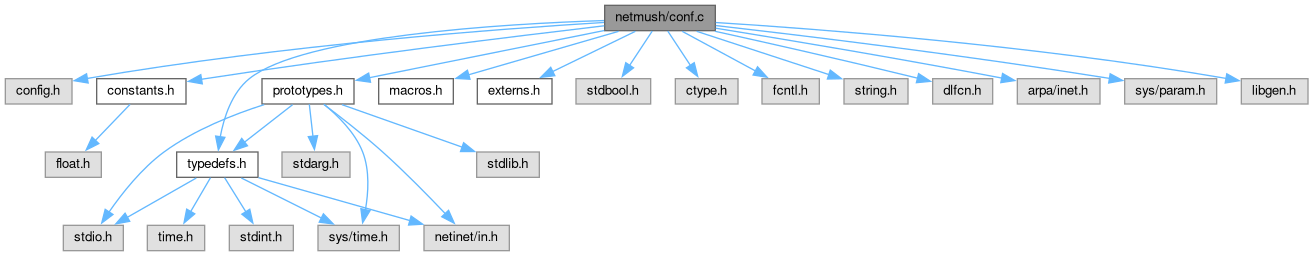
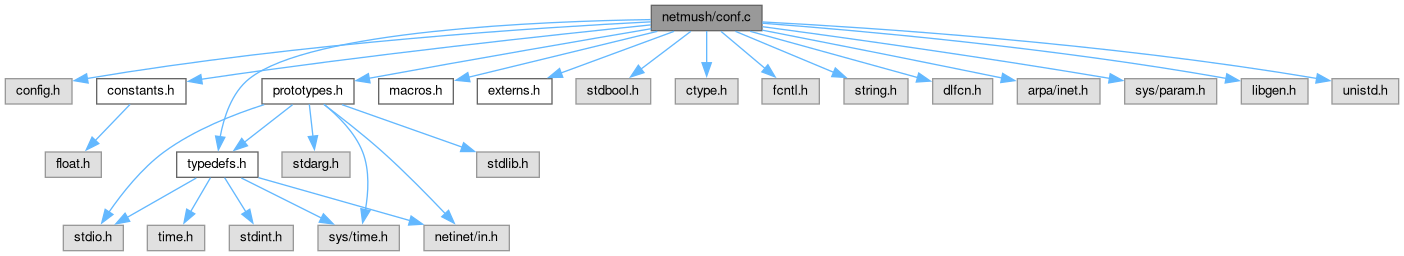
deploy: 9ef5f4ad89fb85d008717929d2bb4c971a84497e

Changed region(s): [[0.0, 0.0312, 0.9992, 1.0]]

diff --git a/html/prototypes_8h_source.html b/html/prototypes_8h_source.html
@@ -1601,45 +1601,45 @@ $(function() {
 <div class="ttc" id="acommand_8c_html_af09656d08f2a6cab960de5ea5d8fdec1"><div class="ttname"><a href="command_8c.html#af09656d08f2a6cab960de5ea5d8fdec1">cf_access</a></div><div class="ttdeci">int cf_access(int *vp __attribute__((unused)), char *str, long extra, dbref player, char *cmd)</div><div class="ttdoc">Change command or switch permissions.</div><div class="ttdef"><b>Definition:</b> command.c:2203</div></div>
 <div class="ttc" id="acommand_8c_html_af2a2ba388e2b9483ea0b0a2bbe25912b"><div class="ttname"><a href="command_8c.html#af2a2ba388e2b9483ea0b0a2bbe25912b">check_cmd_access</a></div><div class="ttdeci">bool check_cmd_access(dbref player, CMDENT *cmdp, char *cargs[], int ncargs)</div><div class="ttdoc">Check if user has access to command.</div><div class="ttdef"><b>Definition:</b> command.c:446</div></div>
 <div class="ttc" id="acommand_8c_html_afc48d4c390671b04556730ed457f9e43"><div class="ttname"><a href="command_8c.html#afc48d4c390671b04556730ed457f9e43">list_costs</a></div><div class="ttdeci">void list_costs(dbref player)</div><div class="ttdoc">List the costs of things.</div><div class="ttdef"><b>Definition:</b> command.c:2562</div></div>
-<div class="ttc" id="aconf_8c_html_a032ee9f4779b1b233731cc990771339a"><div class="ttname"><a href="conf_8c.html#a032ee9f4779b1b233731cc990771339a">cf_divert_log</a></div><div class="ttdeci">CF_Result cf_divert_log(int *vp, char *str, long extra, dbref player, char *cmd)</div><div class="ttdoc">Redirect a log type.</div><div class="ttdef"><b>Definition:</b> conf.c:927</div></div>
-<div class="ttc" id="aconf_8c_html_a085da5a9cb4e6491187ffd5302e6906a"><div class="ttname"><a href="conf_8c.html#a085da5a9cb4e6491187ffd5302e6906a">cf_init</a></div><div class="ttdeci">void cf_init(void)</div><div class="ttdoc">Initialize mushconf to default values.</div><div class="ttdef"><b>Definition:</b> conf.c:38</div></div>
-<div class="ttc" id="aconf_8c_html_a1a0ca056bf4a42dea3c0fd7dee9600c3"><div class="ttname"><a href="conf_8c.html#a1a0ca056bf4a42dea3c0fd7dee9600c3">cf_alias</a></div><div class="ttdeci">CF_Result cf_alias(int *vp, char *str, long extra, dbref player, char *cmd)</div><div class="ttdoc">define a generic hash table alias.</div><div class="ttdef"><b>Definition:</b> conf.c:760</div></div>
-<div class="ttc" id="aconf_8c_html_a200953a534900eeed30b799daead0e3c"><div class="ttname"><a href="conf_8c.html#a200953a534900eeed30b799daead0e3c">modify_xfuncs</a></div><div class="ttdeci">bool modify_xfuncs(char *fn_name, int(*fn_ptr)(dbref), EXTFUNCS **xfuncs, bool negate)</div><div class="ttdoc">Helper function to change xfuncs.</div><div class="ttdef"><b>Definition:</b> conf.c:1126</div></div>
-<div class="ttc" id="aconf_8c_html_a21aba8e61c0468b478c1ea1c958eac64"><div class="ttname"><a href="conf_8c.html#a21aba8e61c0468b478c1ea1c958eac64">cf_status_from_succfail</a></div><div class="ttdeci">CF_Result cf_status_from_succfail(dbref player, char *cmd, int success, int failure)</div><div class="ttdoc">Return command status from succ and fail info.</div><div class="ttdef"><b>Definition:</b> conf.c:420</div></div>
-<div class="ttc" id="aconf_8c_html_a230382081dc03731bca0bf77b116afc5"><div class="ttname"><a href="conf_8c.html#a230382081dc03731bca0bf77b116afc5">helper_cf_display</a></div><div class="ttdeci">void helper_cf_display(dbref player, char *buff, char **bufc, CONF *tp)</div><div class="ttdoc">Helper function for cf_display.</div><div class="ttdef"><b>Definition:</b> conf.c:2403</div></div>
-<div class="ttc" id="aconf_8c_html_a2870e9ac7552941ef3130b3fa9bcf50c"><div class="ttname"><a href="conf_8c.html#a2870e9ac7552941ef3130b3fa9bcf50c">cf_set</a></div><div class="ttdeci">CF_Result cf_set(char *cp, char *ap, dbref player)</div><div class="ttdoc">Set a config directive.</div><div class="ttdef"><b>Definition:</b> conf.c:2194</div></div>
-<div class="ttc" id="aconf_8c_html_a2b797944cba33b8fedc781e884c9c1c5"><div class="ttname"><a href="conf_8c.html#a2b797944cba33b8fedc781e884c9c1c5">add_helpfile</a></div><div class="ttdeci">CF_Result add_helpfile(dbref player, char *confcmd, char *str, bool is_raw)</div><div class="ttdoc">Add a help/news-style file. Only valid during startup.</div><div class="ttdef"><b>Definition:</b> conf.c:1765</div></div>
-<div class="ttc" id="aconf_8c_html_a2bd94da74d93add749fd63445cdb2c42"><div class="ttname"><a href="conf_8c.html#a2bd94da74d93add749fd63445cdb2c42">cf_infotext</a></div><div class="ttdeci">CF_Result cf_infotext(int *vp __attribute__((unused)), char *str, long extra __attribute__((unused)), dbref player __attribute__((unused)), char *cmd __attribute__((unused)))</div><div class="ttdoc">Add an arbitrary field to INFO output.</div><div class="ttdef"><b>Definition:</b> conf.c:840</div></div>
-<div class="ttc" id="aconf_8c_html_a2e088917d0fae5d298da928cfbad0b52"><div class="ttname"><a href="conf_8c.html#a2e088917d0fae5d298da928cfbad0b52">dlopen_format</a></div><div class="ttdeci">void * dlopen_format(const char *filename,...)</div><div class="ttdoc">Wrapper around lt_dlopen that can format filename.</div><div class="ttdef"><b>Definition:</b> conf.c:2576</div></div>
-<div class="ttc" id="aconf_8c_html_a2f25a79146697836916029d8c600aadb"><div class="ttname"><a href="conf_8c.html#a2f25a79146697836916029d8c600aadb">list_options</a></div><div class="ttdeci">void list_options(dbref player)</div><div class="ttdoc">List options to player.</div><div class="ttdef"><b>Definition:</b> conf.c:2488</div></div>
-<div class="ttc" id="aconf_8c_html_a3637eed82e0dc8a7aca3d536208a691a"><div class="ttname"><a href="conf_8c.html#a3637eed82e0dc8a7aca3d536208a691a">cf_bool</a></div><div class="ttdeci">CF_Result cf_bool(int *vp, char *str, long extra __attribute__((unused)), dbref player __attribute__((unused)), char *cmd __attribute__((unused)))</div><div class="ttdoc">Set boolean parameter.</div><div class="ttdef"><b>Definition:</b> conf.c:675</div></div>
-<div class="ttc" id="aconf_8c_html_a4516cd2f85af34f16515a1639fec0b4a"><div class="ttname"><a href="conf_8c.html#a4516cd2f85af34f16515a1639fec0b4a">parse_ext_access</a></div><div class="ttdeci">CF_Result parse_ext_access(int *perms, EXTFUNCS **xperms, char *str, NAMETAB *ntab, dbref player, char *cmd)</div><div class="ttdoc">Parse an extended access list with module callouts.</div><div class="ttdef"><b>Definition:</b> conf.c:1248</div></div>
-<div class="ttc" id="aconf_8c_html_a48775ed4cbf62962ae3dfe01276a89f2"><div class="ttname"><a href="conf_8c.html#a48775ed4cbf62962ae3dfe01276a89f2">cf_set_flags</a></div><div class="ttdeci">CF_Result cf_set_flags(int *vp, char *str, long extra __attribute__((unused)), dbref player, char *cmd)</div><div class="ttdoc">Clear flag word and then set from a flags htab.</div><div class="ttdef"><b>Definition:</b> conf.c:1389</div></div>
-<div class="ttc" id="aconf_8c_html_a5324f59cc87bcb7be9c4c7527c4381b7"><div class="ttname"><a href="conf_8c.html#a5324f59cc87bcb7be9c4c7527c4381b7">cf_helpfile</a></div><div class="ttdeci">CF_Result cf_helpfile(int *vp __attribute__((unused)), char *str, long extra __attribute__((unused)), dbref player, char *cmd)</div><div class="ttdoc">Add an helpfile.</div><div class="ttdef"><b>Definition:</b> conf.c:1922</div></div>
-<div class="ttc" id="aconf_8c_html_a5916f7b967915668be9a04783c68e3fe"><div class="ttname"><a href="conf_8c.html#a5916f7b967915668be9a04783c68e3fe">cf_include</a></div><div class="ttdeci">CF_Result cf_include(int *vp __attribute__((unused)), char *str, long extra __attribute__((unused)), dbref player, char *cmd)</div><div class="ttdoc">Read another config file. Only valid during startup.</div><div class="ttdef"><b>Definition:</b> conf.c:1951</div></div>
-<div class="ttc" id="aconf_8c_html_a683e8bd9019ce641c4d7ef97f61769fe"><div class="ttname"><a href="conf_8c.html#a683e8bd9019ce641c4d7ef97f61769fe">cf_display</a></div><div class="ttdeci">void cf_display(dbref player, char *param_name, char *buff, char **bufc)</div><div class="ttdoc">Given a config parameter by name, return its value in some sane fashion.</div><div class="ttdef"><b>Definition:</b> conf.c:2451</div></div>
-<div class="ttc" id="aconf_8c_html_a6c8d27f4042a89642d60650ee6ea54e1"><div class="ttname"><a href="conf_8c.html#a6c8d27f4042a89642d60650ee6ea54e1">list_cf_access</a></div><div class="ttdeci">void list_cf_access(dbref player)</div><div class="ttdoc">List write or read access to config directives.</div><div class="ttdef"><b>Definition:</b> conf.c:2283</div></div>
-<div class="ttc" id="aconf_8c_html_a7024218f3fd64844a6901a15c6b75932"><div class="ttname"><a href="conf_8c.html#a7024218f3fd64844a6901a15c6b75932">cf_cf_access</a></div><div class="ttdeci">CF_Result cf_cf_access(int *vp, char *str, long extra, dbref player, char *cmd)</div><div class="ttdoc">Set configuration parameter access.</div><div class="ttdef"><b>Definition:</b> conf.c:1716</div></div>
-<div class="ttc" id="aconf_8c_html_a70fdb73c400146dcb44f1df6d13ab59d"><div class="ttname"><a href="conf_8c.html#a70fdb73c400146dcb44f1df6d13ab59d">helper_cf_cf_access</a></div><div class="ttdeci">CF_Result helper_cf_cf_access(CONF *tp, dbref player, int *vp, char *ap, char *cmd, long extra)</div><div class="ttdoc">Set write or read access on config directives kludge.</div><div class="ttdef"><b>Definition:</b> conf.c:1670</div></div>
-<div class="ttc" id="aconf_8c_html_a8e3da15e4ec40ff9d517725902151fbc"><div class="ttname"><a href="conf_8c.html#a8e3da15e4ec40ff9d517725902151fbc">cf_modify_bits</a></div><div class="ttdeci">CF_Result cf_modify_bits(int *vp, char *str, long extra, dbref player, char *cmd)</div><div class="ttdoc">set or clear bits in a flag word from a namelist.</div><div class="ttdef"><b>Definition:</b> conf.c:1057</div></div>
-<div class="ttc" id="aconf_8c_html_a92ac9ac9919ff4951e862a6f04357218"><div class="ttname"><a href="conf_8c.html#a92ac9ac9919ff4951e862a6f04357218">cf_site</a></div><div class="ttdeci">CF_Result cf_site(long **vp, char *str, long extra, dbref player, char *cmd)</div><div class="ttdoc">Update site information.</div><div class="ttdef"><b>Definition:</b> conf.c:1533</div></div>
-<div class="ttc" id="aconf_8c_html_a99b087971745ee409689c8ed0c65e9d8"><div class="ttname"><a href="conf_8c.html#a99b087971745ee409689c8ed0c65e9d8">cf_dbref</a></div><div class="ttdeci">CF_Result cf_dbref(int *vp, char *str, long extra, dbref player, char *cmd)</div><div class="ttdoc">Set dbref parameter.</div><div class="ttdef"><b>Definition:</b> conf.c:538</div></div>
-<div class="ttc" id="aconf_8c_html_a9a1ad9bd03ddc49a2e5e5d64ecfcbd7a"><div class="ttname"><a href="conf_8c.html#a9a1ad9bd03ddc49a2e5e5d64ecfcbd7a">cf_int</a></div><div class="ttdeci">CF_Result cf_int(int *vp, char *str, long extra, dbref player, char *cmd)</div><div class="ttdoc">Set integer parameter.</div><div class="ttdef"><b>Definition:</b> conf.c:482</div></div>
-<div class="ttc" id="aconf_8c_html_aa780cef79c1cef85acf4b459d72f283b"><div class="ttname"><a href="conf_8c.html#aa780cef79c1cef85acf4b459d72f283b">cf_const</a></div><div class="ttdeci">CF_Result cf_const(int *vp __attribute__((unused)), char *str __attribute__((unused)), long extra __attribute__((unused)), dbref player, char *cmd)</div><div class="ttdoc">Read-only integer or boolean parameter.</div><div class="ttdef"><b>Definition:</b> conf.c:462</div></div>
-<div class="ttc" id="aconf_8c_html_aa95745ca45e45ab9d3b47fbdc2e89a75"><div class="ttname"><a href="conf_8c.html#aa95745ca45e45ab9d3b47fbdc2e89a75">cf_int_factor</a></div><div class="ttdeci">CF_Result cf_int_factor(int *vp, char *str, long extra, dbref player, char *cmd)</div><div class="ttdoc">Set integer parameter that will be used as a factor (ie. cannot be set to 0)</div><div class="ttdef"><b>Definition:</b> conf.c:508</div></div>
-<div class="ttc" id="aconf_8c_html_ab38ed99fd7766aca9686cb5410386060"><div class="ttname"><a href="conf_8c.html#ab38ed99fd7766aca9686cb5410386060">cf_read</a></div><div class="ttdeci">CF_Result cf_read(char *fn)</div><div class="ttdoc">Read in config parameters from named file.</div><div class="ttdef"><b>Definition:</b> conf.c:2271</div></div>
-<div class="ttc" id="aconf_8c_html_ab67a993026aff1ef8abacb365655dcbd"><div class="ttname"><a href="conf_8c.html#ab67a993026aff1ef8abacb365655dcbd">cf_option</a></div><div class="ttdeci">CF_Result cf_option(int *vp, char *str, long extra, dbref player, char *cmd)</div><div class="ttdoc">Select one option from many choices.</div><div class="ttdef"><b>Definition:</b> conf.c:697</div></div>
-<div class="ttc" id="aconf_8c_html_aba5afa77ee6277bef4422c8880295e59"><div class="ttname"><a href="conf_8c.html#aba5afa77ee6277bef4422c8880295e59">cf_verify</a></div><div class="ttdeci">void cf_verify(void)</div><div class="ttdoc">Walk all configuration tables and validate any dbref values.</div><div class="ttdef"><b>Definition:</b> conf.c:2359</div></div>
-<div class="ttc" id="aconf_8c_html_ac9483ab49da95f7d8c66cdb8c04f40d4"><div class="ttname"><a href="conf_8c.html#ac9483ab49da95f7d8c66cdb8c04f40d4">dlsym_format</a></div><div class="ttdeci">void * dlsym_format(void *place, const char *symbol,...)</div><div class="ttdoc">Wrapper for lt_dlsym that format symbol string.</div><div class="ttdef"><b>Definition:</b> conf.c:2665</div></div>
-<div class="ttc" id="aconf_8c_html_acdf13b080f6aefea67458c703d710032"><div class="ttname"><a href="conf_8c.html#acdf13b080f6aefea67458c703d710032">cf_badname</a></div><div class="ttdeci">CF_Result cf_badname(int *vp __attribute__((unused)), char *str, long extra, dbref player __attribute__((unused)), char *cmd __attribute__((unused)))</div><div class="ttdoc">Disallow use of player name/alias.</div><div class="ttdef"><b>Definition:</b> conf.c:1480</div></div>
-<div class="ttc" id="aconf_8c_html_ad1fa1cbb8bd39108497e7e24a241ae99"><div class="ttname"><a href="conf_8c.html#ad1fa1cbb8bd39108497e7e24a241ae99">cf_module</a></div><div class="ttdeci">CF_Result cf_module(int *vp __attribute__((unused)), char *modname, long extra __attribute__((unused)), dbref player __attribute__((unused)), char *cmd __attribute__((unused)))</div><div class="ttdoc">Open a loadable module. Modules are initialized later in the startup.</div><div class="ttdef"><b>Definition:</b> conf.c:610</div></div>
-<div class="ttc" id="aconf_8c_html_ad234822432f9ec1ea18767b51d4e498b"><div class="ttname"><a href="conf_8c.html#ad234822432f9ec1ea18767b51d4e498b">cf_string</a></div><div class="ttdeci">CF_Result cf_string(int *vp, char *str, long extra, dbref player, char *cmd)</div><div class="ttdoc">Set string parameter.</div><div class="ttdef"><b>Definition:</b> conf.c:721</div></div>
-<div class="ttc" id="aconf_8c_html_ad236806124b393b71fb9e872b1597eec"><div class="ttname"><a href="conf_8c.html#ad236806124b393b71fb9e872b1597eec">helper_cf_set</a></div><div class="ttdeci">CF_Result helper_cf_set(char *cp, char *ap, dbref player, CONF *tp)</div><div class="ttdoc">Set config parameter.</div><div class="ttdef"><b>Definition:</b> conf.c:2129</div></div>
-<div class="ttc" id="aconf_8c_html_adad360a9cec42e0191855db3094277b2"><div class="ttname"><a href="conf_8c.html#adad360a9cec42e0191855db3094277b2">sane_inet_addr</a></div><div class="ttdeci">in_addr_t sane_inet_addr(char *str)</div><div class="ttdoc">Replacement for inet_addr()</div><div class="ttdef"><b>Definition:</b> conf.c:1505</div></div>
-<div class="ttc" id="aconf_8c_html_adb3afe9352eea6d12259bbec4fcab439"><div class="ttname"><a href="conf_8c.html#adb3afe9352eea6d12259bbec4fcab439">list_cf_read_access</a></div><div class="ttdeci">void list_cf_read_access(dbref player)</div><div class="ttdoc">List read access to config directives.</div><div class="ttdef"><b>Definition:</b> conf.c:2319</div></div>
-<div class="ttc" id="aconf_8c_html_adc080b97b9e3e8d6fc60266ff333e709"><div class="ttname"><a href="conf_8c.html#adc080b97b9e3e8d6fc60266ff333e709">cf_raw_helpfile</a></div><div class="ttdeci">CF_Result cf_raw_helpfile(int *vp __attribute__((unused)), char *str, long extra __attribute__((unused)), dbref player, char *cmd)</div><div class="ttdoc">Add a raw helpfile.</div><div class="ttdef"><b>Definition:</b> conf.c:1936</div></div>
-<div class="ttc" id="aconf_8c_html_add66d84044080759b908f5057e6814b4"><div class="ttname"><a href="conf_8c.html#add66d84044080759b908f5057e6814b4">cf_log</a></div><div class="ttdeci">void cf_log(dbref player, const char *primary, const char *secondary, char *cmd, const char *format,...)</div><div class="ttdoc">Log a configuration error.</div><div class="ttdef"><b>Definition:</b> conf.c:390</div></div>
-<div class="ttc" id="aconf_8c_html_ae9661b0a25806032418aeb6171df952e"><div class="ttname"><a href="conf_8c.html#ae9661b0a25806032418aeb6171df952e">do_admin</a></div><div class="ttdeci">void do_admin(dbref player, dbref cause __attribute__((unused)), int extra __attribute__((unused)), char *kw, char *value)</div><div class="ttdoc">Command handler to set config params at runtime.</div><div class="ttdef"><b>Definition:</b> conf.c:2253</div></div>
+<div class="ttc" id="aconf_8c_html_a032ee9f4779b1b233731cc990771339a"><div class="ttname"><a href="conf_8c.html#a032ee9f4779b1b233731cc990771339a">cf_divert_log</a></div><div class="ttdeci">CF_Result cf_divert_log(int *vp, char *str, long extra, dbref player, char *cmd)</div><div class="ttdoc">Redirect a log type.</div><div class="ttdef"><b>Definition:</b> conf.c:928</div></div>
+<div class="ttc" id="aconf_8c_html_a085da5a9cb4e6491187ffd5302e6906a"><div class="ttname"><a href="conf_8c.html#a085da5a9cb4e6491187ffd5302e6906a">cf_init</a></div><div class="ttdeci">void cf_init(void)</div><div class="ttdoc">Initialize mushconf to default values.</div><div class="ttdef"><b>Definition:</b> conf.c:39</div></div>
+<div class="ttc" id="aconf_8c_html_a1a0ca056bf4a42dea3c0fd7dee9600c3"><div class="ttname"><a href="conf_8c.html#a1a0ca056bf4a42dea3c0fd7dee9600c3">cf_alias</a></div><div class="ttdeci">CF_Result cf_alias(int *vp, char *str, long extra, dbref player, char *cmd)</div><div class="ttdoc">define a generic hash table alias.</div><div class="ttdef"><b>Definition:</b> conf.c:761</div></div>
+<div class="ttc" id="aconf_8c_html_a200953a534900eeed30b799daead0e3c"><div class="ttname"><a href="conf_8c.html#a200953a534900eeed30b799daead0e3c">modify_xfuncs</a></div><div class="ttdeci">bool modify_xfuncs(char *fn_name, int(*fn_ptr)(dbref), EXTFUNCS **xfuncs, bool negate)</div><div class="ttdoc">Helper function to change xfuncs.</div><div class="ttdef"><b>Definition:</b> conf.c:1127</div></div>
+<div class="ttc" id="aconf_8c_html_a21aba8e61c0468b478c1ea1c958eac64"><div class="ttname"><a href="conf_8c.html#a21aba8e61c0468b478c1ea1c958eac64">cf_status_from_succfail</a></div><div class="ttdeci">CF_Result cf_status_from_succfail(dbref player, char *cmd, int success, int failure)</div><div class="ttdoc">Return command status from succ and fail info.</div><div class="ttdef"><b>Definition:</b> conf.c:421</div></div>
+<div class="ttc" id="aconf_8c_html_a230382081dc03731bca0bf77b116afc5"><div class="ttname"><a href="conf_8c.html#a230382081dc03731bca0bf77b116afc5">helper_cf_display</a></div><div class="ttdeci">void helper_cf_display(dbref player, char *buff, char **bufc, CONF *tp)</div><div class="ttdoc">Helper function for cf_display.</div><div class="ttdef"><b>Definition:</b> conf.c:2404</div></div>
+<div class="ttc" id="aconf_8c_html_a2870e9ac7552941ef3130b3fa9bcf50c"><div class="ttname"><a href="conf_8c.html#a2870e9ac7552941ef3130b3fa9bcf50c">cf_set</a></div><div class="ttdeci">CF_Result cf_set(char *cp, char *ap, dbref player)</div><div class="ttdoc">Set a config directive.</div><div class="ttdef"><b>Definition:</b> conf.c:2195</div></div>
+<div class="ttc" id="aconf_8c_html_a2b797944cba33b8fedc781e884c9c1c5"><div class="ttname"><a href="conf_8c.html#a2b797944cba33b8fedc781e884c9c1c5">add_helpfile</a></div><div class="ttdeci">CF_Result add_helpfile(dbref player, char *confcmd, char *str, bool is_raw)</div><div class="ttdoc">Add a help/news-style file. Only valid during startup.</div><div class="ttdef"><b>Definition:</b> conf.c:1766</div></div>
+<div class="ttc" id="aconf_8c_html_a2bd94da74d93add749fd63445cdb2c42"><div class="ttname"><a href="conf_8c.html#a2bd94da74d93add749fd63445cdb2c42">cf_infotext</a></div><div class="ttdeci">CF_Result cf_infotext(int *vp __attribute__((unused)), char *str, long extra __attribute__((unused)), dbref player __attribute__((unused)), char *cmd __attribute__((unused)))</div><div class="ttdoc">Add an arbitrary field to INFO output.</div><div class="ttdef"><b>Definition:</b> conf.c:841</div></div>
+<div class="ttc" id="aconf_8c_html_a2e088917d0fae5d298da928cfbad0b52"><div class="ttname"><a href="conf_8c.html#a2e088917d0fae5d298da928cfbad0b52">dlopen_format</a></div><div class="ttdeci">void * dlopen_format(const char *filename,...)</div><div class="ttdoc">Wrapper around lt_dlopen that can format filename.</div><div class="ttdef"><b>Definition:</b> conf.c:2577</div></div>
+<div class="ttc" id="aconf_8c_html_a2f25a79146697836916029d8c600aadb"><div class="ttname"><a href="conf_8c.html#a2f25a79146697836916029d8c600aadb">list_options</a></div><div class="ttdeci">void list_options(dbref player)</div><div class="ttdoc">List options to player.</div><div class="ttdef"><b>Definition:</b> conf.c:2489</div></div>
+<div class="ttc" id="aconf_8c_html_a3637eed82e0dc8a7aca3d536208a691a"><div class="ttname"><a href="conf_8c.html#a3637eed82e0dc8a7aca3d536208a691a">cf_bool</a></div><div class="ttdeci">CF_Result cf_bool(int *vp, char *str, long extra __attribute__((unused)), dbref player __attribute__((unused)), char *cmd __attribute__((unused)))</div><div class="ttdoc">Set boolean parameter.</div><div class="ttdef"><b>Definition:</b> conf.c:676</div></div>
+<div class="ttc" id="aconf_8c_html_a4516cd2f85af34f16515a1639fec0b4a"><div class="ttname"><a href="conf_8c.html#a4516cd2f85af34f16515a1639fec0b4a">parse_ext_access</a></div><div class="ttdeci">CF_Result parse_ext_access(int *perms, EXTFUNCS **xperms, char *str, NAMETAB *ntab, dbref player, char *cmd)</div><div class="ttdoc">Parse an extended access list with module callouts.</div><div class="ttdef"><b>Definition:</b> conf.c:1249</div></div>
+<div class="ttc" id="aconf_8c_html_a48775ed4cbf62962ae3dfe01276a89f2"><div class="ttname"><a href="conf_8c.html#a48775ed4cbf62962ae3dfe01276a89f2">cf_set_flags</a></div><div class="ttdeci">CF_Result cf_set_flags(int *vp, char *str, long extra __attribute__((unused)), dbref player, char *cmd)</div><div class="ttdoc">Clear flag word and then set from a flags htab.</div><div class="ttdef"><b>Definition:</b> conf.c:1390</div></div>
+<div class="ttc" id="aconf_8c_html_a5324f59cc87bcb7be9c4c7527c4381b7"><div class="ttname"><a href="conf_8c.html#a5324f59cc87bcb7be9c4c7527c4381b7">cf_helpfile</a></div><div class="ttdeci">CF_Result cf_helpfile(int *vp __attribute__((unused)), char *str, long extra __attribute__((unused)), dbref player, char *cmd)</div><div class="ttdoc">Add an helpfile.</div><div class="ttdef"><b>Definition:</b> conf.c:1923</div></div>
+<div class="ttc" id="aconf_8c_html_a5916f7b967915668be9a04783c68e3fe"><div class="ttname"><a href="conf_8c.html#a5916f7b967915668be9a04783c68e3fe">cf_include</a></div><div class="ttdeci">CF_Result cf_include(int *vp __attribute__((unused)), char *str, long extra __attribute__((unused)), dbref player, char *cmd)</div><div class="ttdoc">Read another config file. Only valid during startup.</div><div class="ttdef"><b>Definition:</b> conf.c:1952</div></div>
+<div class="ttc" id="aconf_8c_html_a683e8bd9019ce641c4d7ef97f61769fe"><div class="ttname"><a href="conf_8c.html#a683e8bd9019ce641c4d7ef97f61769fe">cf_display</a></div><div class="ttdeci">void cf_display(dbref player, char *param_name, char *buff, char **bufc)</div><div class="ttdoc">Given a config parameter by name, return its value in some sane fashion.</div><div class="ttdef"><b>Definition:</b> conf.c:2452</div></div>
+<div class="ttc" id="aconf_8c_html_a6c8d27f4042a89642d60650ee6ea54e1"><div class="ttname"><a href="conf_8c.html#a6c8d27f4042a89642d60650ee6ea54e1">list_cf_access</a></div><div class="ttdeci">void list_cf_access(dbref player)</div><div class="ttdoc">List write or read access to config directives.</div><div class="ttdef"><b>Definition:</b> conf.c:2284</div></div>
+<div class="ttc" id="aconf_8c_html_a7024218f3fd64844a6901a15c6b75932"><div class="ttname"><a href="conf_8c.html#a7024218f3fd64844a6901a15c6b75932">cf_cf_access</a></div><div class="ttdeci">CF_Result cf_cf_access(int *vp, char *str, long extra, dbref player, char *cmd)</div><div class="ttdoc">Set configuration parameter access.</div><div class="ttdef"><b>Definition:</b> conf.c:1717</div></div>
+<div class="ttc" id="aconf_8c_html_a70fdb73c400146dcb44f1df6d13ab59d"><div class="ttname"><a href="conf_8c.html#a70fdb73c400146dcb44f1df6d13ab59d">helper_cf_cf_access</a></div><div class="ttdeci">CF_Result helper_cf_cf_access(CONF *tp, dbref player, int *vp, char *ap, char *cmd, long extra)</div><div class="ttdoc">Set write or read access on config directives kludge.</div><div class="ttdef"><b>Definition:</b> conf.c:1671</div></div>
+<div class="ttc" id="aconf_8c_html_a8e3da15e4ec40ff9d517725902151fbc"><div class="ttname"><a href="conf_8c.html#a8e3da15e4ec40ff9d517725902151fbc">cf_modify_bits</a></div><div class="ttdeci">CF_Result cf_modify_bits(int *vp, char *str, long extra, dbref player, char *cmd)</div><div class="ttdoc">set or clear bits in a flag word from a namelist.</div><div class="ttdef"><b>Definition:</b> conf.c:1058</div></div>
+<div class="ttc" id="aconf_8c_html_a92ac9ac9919ff4951e862a6f04357218"><div class="ttname"><a href="conf_8c.html#a92ac9ac9919ff4951e862a6f04357218">cf_site</a></div><div class="ttdeci">CF_Result cf_site(long **vp, char *str, long extra, dbref player, char *cmd)</div><div class="ttdoc">Update site information.</div><div class="ttdef"><b>Definition:</b> conf.c:1534</div></div>
+<div class="ttc" id="aconf_8c_html_a99b087971745ee409689c8ed0c65e9d8"><div class="ttname"><a href="conf_8c.html#a99b087971745ee409689c8ed0c65e9d8">cf_dbref</a></div><div class="ttdeci">CF_Result cf_dbref(int *vp, char *str, long extra, dbref player, char *cmd)</div><div class="ttdoc">Set dbref parameter.</div><div class="ttdef"><b>Definition:</b> conf.c:539</div></div>
+<div class="ttc" id="aconf_8c_html_a9a1ad9bd03ddc49a2e5e5d64ecfcbd7a"><div class="ttname"><a href="conf_8c.html#a9a1ad9bd03ddc49a2e5e5d64ecfcbd7a">cf_int</a></div><div class="ttdeci">CF_Result cf_int(int *vp, char *str, long extra, dbref player, char *cmd)</div><div class="ttdoc">Set integer parameter.</div><div class="ttdef"><b>Definition:</b> conf.c:483</div></div>
+<div class="ttc" id="aconf_8c_html_aa780cef79c1cef85acf4b459d72f283b"><div class="ttname"><a href="conf_8c.html#aa780cef79c1cef85acf4b459d72f283b">cf_const</a></div><div class="ttdeci">CF_Result cf_const(int *vp __attribute__((unused)), char *str __attribute__((unused)), long extra __attribute__((unused)), dbref player, char *cmd)</div><div class="ttdoc">Read-only integer or boolean parameter.</div><div class="ttdef"><b>Definition:</b> conf.c:463</div></div>
+<div class="ttc" id="aconf_8c_html_aa95745ca45e45ab9d3b47fbdc2e89a75"><div class="ttname"><a href="conf_8c.html#aa95745ca45e45ab9d3b47fbdc2e89a75">cf_int_factor</a></div><div class="ttdeci">CF_Result cf_int_factor(int *vp, char *str, long extra, dbref player, char *cmd)</div><div class="ttdoc">Set integer parameter that will be used as a factor (ie. cannot be set to 0)</div><div class="ttdef"><b>Definition:</b> conf.c:509</div></div>
+<div class="ttc" id="aconf_8c_html_ab38ed99fd7766aca9686cb5410386060"><div class="ttname"><a href="conf_8c.html#ab38ed99fd7766aca9686cb5410386060">cf_read</a></div><div class="ttdeci">CF_Result cf_read(char *fn)</div><div class="ttdoc">Read in config parameters from named file.</div><div class="ttdef"><b>Definition:</b> conf.c:2272</div></div>
+<div class="ttc" id="aconf_8c_html_ab67a993026aff1ef8abacb365655dcbd"><div class="ttname"><a href="conf_8c.html#ab67a993026aff1ef8abacb365655dcbd">cf_option</a></div><div class="ttdeci">CF_Result cf_option(int *vp, char *str, long extra, dbref player, char *cmd)</div><div class="ttdoc">Select one option from many choices.</div><div class="ttdef"><b>Definition:</b> conf.c:698</div></div>
+<div class="ttc" id="aconf_8c_html_aba5afa77ee6277bef4422c8880295e59"><div class="ttname"><a href="conf_8c.html#aba5afa77ee6277bef4422c8880295e59">cf_verify</a></div><div class="ttdeci">void cf_verify(void)</div><div class="ttdoc">Walk all configuration tables and validate any dbref values.</div><div class="ttdef"><b>Definition:</b> conf.c:2360</div></div>
+<div class="ttc" id="aconf_8c_html_ac9483ab49da95f7d8c66cdb8c04f40d4"><div class="ttname"><a href="conf_8c.html#ac9483ab49da95f7d8c66cdb8c04f40d4">dlsym_format</a></div><div class="ttdeci">void * dlsym_format(void *place, const char *symbol,...)</div><div class="ttdoc">Wrapper for lt_dlsym that format symbol string.</div><div class="ttdef"><b>Definition:</b> conf.c:2666</div></div>
+<div class="ttc" id="aconf_8c_html_acdf13b080f6aefea67458c703d710032"><div class="ttname"><a href="conf_8c.html#acdf13b080f6aefea67458c703d710032">cf_badname</a></div><div class="ttdeci">CF_Result cf_badname(int *vp __attribute__((unused)), char *str, long extra, dbref player __attribute__((unused)), char *cmd __attribute__((unused)))</div><div class="ttdoc">Disallow use of player name/alias.</div><div class="ttdef"><b>Definition:</b> conf.c:1481</div></div>
+<div class="ttc" id="aconf_8c_html_ad1fa1cbb8bd39108497e7e24a241ae99"><div class="ttname"><a href="conf_8c.html#ad1fa1cbb8bd39108497e7e24a241ae99">cf_module</a></div><div class="ttdeci">CF_Result cf_module(int *vp __attribute__((unused)), char *modname, long extra __attribute__((unused)), dbref player __attribute__((unused)), char *cmd __attribute__((unused)))</div><div class="ttdoc">Open a loadable module. Modules are initialized later in the startup.</div><div class="ttdef"><b>Definition:</b> conf.c:611</div></div>
+<div class="ttc" id="aconf_8c_html_ad234822432f9ec1ea18767b51d4e498b"><div class="ttname"><a href="conf_8c.html#ad234822432f9ec1ea18767b51d4e498b">cf_string</a></div><div class="ttdeci">CF_Result cf_string(int *vp, char *str, long extra, dbref player, char *cmd)</div><div class="ttdoc">Set string parameter.</div><div class="ttdef"><b>Definition:</b> conf.c:722</div></div>
+<div class="ttc" id="aconf_8c_html_ad236806124b393b71fb9e872b1597eec"><div class="ttname"><a href="conf_8c.html#ad236806124b393b71fb9e872b1597eec">helper_cf_set</a></div><div class="ttdeci">CF_Result helper_cf_set(char *cp, char *ap, dbref player, CONF *tp)</div><div class="ttdoc">Set config parameter.</div><div class="ttdef"><b>Definition:</b> conf.c:2130</div></div>
+<div class="ttc" id="aconf_8c_html_adad360a9cec42e0191855db3094277b2"><div class="ttname"><a href="conf_8c.html#adad360a9cec42e0191855db3094277b2">sane_inet_addr</a></div><div class="ttdeci">in_addr_t sane_inet_addr(char *str)</div><div class="ttdoc">Replacement for inet_addr()</div><div class="ttdef"><b>Definition:</b> conf.c:1506</div></div>
+<div class="ttc" id="aconf_8c_html_adb3afe9352eea6d12259bbec4fcab439"><div class="ttname"><a href="conf_8c.html#adb3afe9352eea6d12259bbec4fcab439">list_cf_read_access</a></div><div class="ttdeci">void list_cf_read_access(dbref player)</div><div class="ttdoc">List read access to config directives.</div><div class="ttdef"><b>Definition:</b> conf.c:2320</div></div>
+<div class="ttc" id="aconf_8c_html_adc080b97b9e3e8d6fc60266ff333e709"><div class="ttname"><a href="conf_8c.html#adc080b97b9e3e8d6fc60266ff333e709">cf_raw_helpfile</a></div><div class="ttdeci">CF_Result cf_raw_helpfile(int *vp __attribute__((unused)), char *str, long extra __attribute__((unused)), dbref player, char *cmd)</div><div class="ttdoc">Add a raw helpfile.</div><div class="ttdef"><b>Definition:</b> conf.c:1937</div></div>
+<div class="ttc" id="aconf_8c_html_add66d84044080759b908f5057e6814b4"><div class="ttname"><a href="conf_8c.html#add66d84044080759b908f5057e6814b4">cf_log</a></div><div class="ttdeci">void cf_log(dbref player, const char *primary, const char *secondary, char *cmd, const char *format,...)</div><div class="ttdoc">Log a configuration error.</div><div class="ttdef"><b>Definition:</b> conf.c:391</div></div>
+<div class="ttc" id="aconf_8c_html_ae9661b0a25806032418aeb6171df952e"><div class="ttname"><a href="conf_8c.html#ae9661b0a25806032418aeb6171df952e">do_admin</a></div><div class="ttdeci">void do_admin(dbref player, dbref cause __attribute__((unused)), int extra __attribute__((unused)), char *kw, char *value)</div><div class="ttdoc">Command handler to set config params at runtime.</div><div class="ttdef"><b>Definition:</b> conf.c:2254</div></div>
 <div class="ttc" id="acque_8c_html_a1122a873593fa4e2597807cb59064f4d"><div class="ttname"><a href="cque_8c.html#a1122a873593fa4e2597807cb59064f4d">qpid_next</a></div><div class="ttdeci">int qpid_next(void)</div><div class="ttdoc">Get the next available queue PID.</div><div class="ttdef"><b>Definition:</b> cque.c:751</div></div>
 <div class="ttc" id="acque_8c_html_a21182c864f8b56abdb1670ee36388af4"><div class="ttname"><a href="cque_8c.html#a21182c864f8b56abdb1670ee36388af4">halt_que</a></div><div class="ttdeci">int halt_que(dbref player, dbref object)</div><div class="ttdoc">Remove all queued commands from a certain player.</div><div class="ttdef"><b>Definition:</b> cque.c:179</div></div>
 <div class="ttc" id="acque_8c_html_a228530a31c6d75a501ac4706ed4f8838"><div class="ttname"><a href="cque_8c.html#a228530a31c6d75a501ac4706ed4f8838">add_to</a></div><div class="ttdeci">int add_to(dbref doer, dbref player, int am, int attrnum)</div><div class="ttdoc">Adjust an object's queue or semaphore count.</div><div class="ttdef"><b>Definition:</b> cque.c:79</div></div>

diff --git a/html/db__sql_8c.html b/html/db__sql_8c.html
@@ -198,9 +198,9 @@ Variables</h2></td></tr>
 <div class="line">    {(<span class="keywordtype">char</span> *)<span class="stringliteral">&quot;sql_port&quot;</span>, <a class="code hl_function" href="conf_8c.html#a9a1ad9bd03ddc49a2e5e5d64ecfcbd7a">cf_int</a>, <a class="code hl_define" href="constants_8h.html#a78303ca1278b01d81c88f7855dd2cb24">CA_STATIC</a>, <a class="code hl_define" href="constants_8h.html#ae3711c84b4ca88296796e8af4df161e2">CA_GOD</a>, &amp;mod_db_sql_config.port, (<span class="keywordtype">long</span>)<span class="stringliteral">&quot;SQL database port&quot;</span>},</div>
 <div class="line">    {(<span class="keywordtype">char</span> *)<span class="stringliteral">&quot;sql_socket&quot;</span>, <a class="code hl_function" href="conf_8c.html#a9a1ad9bd03ddc49a2e5e5d64ecfcbd7a">cf_int</a>, <a class="code hl_define" href="constants_8h.html#a78303ca1278b01d81c88f7855dd2cb24">CA_STATIC</a>, <a class="code hl_define" href="constants_8h.html#ae3711c84b4ca88296796e8af4df161e2">CA_GOD</a>, &amp;mod_db_sql_config.socket, 0},</div>
 <div class="line">    {NULL, NULL, 0, 0, NULL, 0}}</div>
-<div class="ttc" id="aconf_8c_html_a3637eed82e0dc8a7aca3d536208a691a"><div class="ttname"><a href="conf_8c.html#a3637eed82e0dc8a7aca3d536208a691a">cf_bool</a></div><div class="ttdeci">CF_Result cf_bool(int *vp, char *str, long extra __attribute__((unused)), dbref player __attribute__((unused)), char *cmd __attribute__((unused)))</div><div class="ttdoc">Set boolean parameter.</div><div class="ttdef"><b>Definition:</b> conf.c:675</div></div>
-<div class="ttc" id="aconf_8c_html_a9a1ad9bd03ddc49a2e5e5d64ecfcbd7a"><div class="ttname"><a href="conf_8c.html#a9a1ad9bd03ddc49a2e5e5d64ecfcbd7a">cf_int</a></div><div class="ttdeci">CF_Result cf_int(int *vp, char *str, long extra, dbref player, char *cmd)</div><div class="ttdoc">Set integer parameter.</div><div class="ttdef"><b>Definition:</b> conf.c:482</div></div>
-<div class="ttc" id="aconf_8c_html_ad234822432f9ec1ea18767b51d4e498b"><div class="ttname"><a href="conf_8c.html#ad234822432f9ec1ea18767b51d4e498b">cf_string</a></div><div class="ttdeci">CF_Result cf_string(int *vp, char *str, long extra, dbref player, char *cmd)</div><div class="ttdoc">Set string parameter.</div><div class="ttdef"><b>Definition:</b> conf.c:721</div></div>
+<div class="ttc" id="aconf_8c_html_a3637eed82e0dc8a7aca3d536208a691a"><div class="ttname"><a href="conf_8c.html#a3637eed82e0dc8a7aca3d536208a691a">cf_bool</a></div><div class="ttdeci">CF_Result cf_bool(int *vp, char *str, long extra __attribute__((unused)), dbref player __attribute__((unused)), char *cmd __attribute__((unused)))</div><div class="ttdoc">Set boolean parameter.</div><div class="ttdef"><b>Definition:</b> conf.c:676</div></div>
+<div class="ttc" id="aconf_8c_html_a9a1ad9bd03ddc49a2e5e5d64ecfcbd7a"><div class="ttname"><a href="conf_8c.html#a9a1ad9bd03ddc49a2e5e5d64ecfcbd7a">cf_int</a></div><div class="ttdeci">CF_Result cf_int(int *vp, char *str, long extra, dbref player, char *cmd)</div><div class="ttdoc">Set integer parameter.</div><div class="ttdef"><b>Definition:</b> conf.c:483</div></div>
+<div class="ttc" id="aconf_8c_html_ad234822432f9ec1ea18767b51d4e498b"><div class="ttname"><a href="conf_8c.html#ad234822432f9ec1ea18767b51d4e498b">cf_string</a></div><div class="ttdeci">CF_Result cf_string(int *vp, char *str, long extra, dbref player, char *cmd)</div><div class="ttdoc">Set string parameter.</div><div class="ttdef"><b>Definition:</b> conf.c:722</div></div>
 <div class="ttc" id="aconstants_8h_html_a502c8aab5888819f96d107c249a83103"><div class="ttname"><a href="constants_8h.html#a502c8aab5888819f96d107c249a83103">MBUF_SIZE</a></div><div class="ttdeci">#define MBUF_SIZE</div><div class="ttdef"><b>Definition:</b> constants.h:22</div></div>
 <div class="ttc" id="aconstants_8h_html_a78303ca1278b01d81c88f7855dd2cb24"><div class="ttname"><a href="constants_8h.html#a78303ca1278b01d81c88f7855dd2cb24">CA_STATIC</a></div><div class="ttdeci">#define CA_STATIC</div><div class="ttdef"><b>Definition:</b> constants.h:409</div></div>
 <div class="ttc" id="aconstants_8h_html_ae3711c84b4ca88296796e8af4df161e2"><div class="ttname"><a href="constants_8h.html#ae3711c84b4ca88296796e8af4df161e2">CA_GOD</a></div><div class="ttdeci">#define CA_GOD</div><div class="ttdef"><b>Definition:</b> constants.h:374</div></div>

diff --git a/html/comsys_8c.html b/html/comsys_8c.html
@@ -780,7 +780,7 @@ struct <a class="el" href="structmod__comsys__confstorage.html">mod_comsys_confs
 <div class="line">    {(<span class="keywordtype">char</span> *)<span class="stringliteral">&quot;public_calias&quot;</span>, <a class="code hl_function" href="conf_8c.html#ad234822432f9ec1ea18767b51d4e498b">cf_string</a>, <a class="code hl_define" href="constants_8h.html#a78303ca1278b01d81c88f7855dd2cb24">CA_STATIC</a>, <a class="code hl_define" href="constants_8h.html#ac83d7116eca40585f086d0c0c5e02e0c">CA_PUBLIC</a>, (<span class="keywordtype">int</span> *)&amp;mod_comsys_config.public_calias, <a class="code hl_define" href="constants_8h.html#a2facdfca371afebb3364c87fae328d95">SBUF_SIZE</a>},</div>
 <div class="line">    {(<span class="keywordtype">char</span> *)<span class="stringliteral">&quot;public_channel&quot;</span>, <a class="code hl_function" href="conf_8c.html#ad234822432f9ec1ea18767b51d4e498b">cf_string</a>, <a class="code hl_define" href="constants_8h.html#a78303ca1278b01d81c88f7855dd2cb24">CA_STATIC</a>, <a class="code hl_define" href="constants_8h.html#ac83d7116eca40585f086d0c0c5e02e0c">CA_PUBLIC</a>, (<span class="keywordtype">int</span> *)&amp;mod_comsys_config.public_channel, <a class="code hl_define" href="constants_8h.html#a2facdfca371afebb3364c87fae328d95">SBUF_SIZE</a>},</div>
 <div class="line">    {NULL, NULL, 0, 0, NULL, 0}}</div>
-<div class="ttc" id="aconf_8c_html_ad234822432f9ec1ea18767b51d4e498b"><div class="ttname"><a href="conf_8c.html#ad234822432f9ec1ea18767b51d4e498b">cf_string</a></div><div class="ttdeci">CF_Result cf_string(int *vp, char *str, long extra, dbref player, char *cmd)</div><div class="ttdoc">Set string parameter.</div><div class="ttdef"><b>Definition:</b> conf.c:721</div></div>
+<div class="ttc" id="aconf_8c_html_ad234822432f9ec1ea18767b51d4e498b"><div class="ttname"><a href="conf_8c.html#ad234822432f9ec1ea18767b51d4e498b">cf_string</a></div><div class="ttdeci">CF_Result cf_string(int *vp, char *str, long extra, dbref player, char *cmd)</div><div class="ttdoc">Set string parameter.</div><div class="ttdef"><b>Definition:</b> conf.c:722</div></div>
 <div class="ttc" id="aconstants_8h_html_a2facdfca371afebb3364c87fae328d95"><div class="ttname"><a href="constants_8h.html#a2facdfca371afebb3364c87fae328d95">SBUF_SIZE</a></div><div class="ttdeci">#define SBUF_SIZE</div><div class="ttdef"><b>Definition:</b> constants.h:23</div></div>
 <div class="ttc" id="aconstants_8h_html_a78303ca1278b01d81c88f7855dd2cb24"><div class="ttname"><a href="constants_8h.html#a78303ca1278b01d81c88f7855dd2cb24">CA_STATIC</a></div><div class="ttdeci">#define CA_STATIC</div><div class="ttdef"><b>Definition:</b> constants.h:409</div></div>
 </div><!-- fragment -->

diff --git a/html/mail_8c.html b/html/mail_8c.html
@@ -534,7 +534,7 @@ struct <a class="el" href="structmalias.html">malias</a> **&#160;</td><td class=
 <b>Initial value:</b><div class="fragment"><div class="line">= {</div>
 <div class="line">    {(<span class="keywordtype">char</span> *)<span class="stringliteral">&quot;mail_expiration&quot;</span>, <a class="code hl_function" href="conf_8c.html#a9a1ad9bd03ddc49a2e5e5d64ecfcbd7a">cf_int</a>, <a class="code hl_define" href="constants_8h.html#ae3711c84b4ca88296796e8af4df161e2">CA_GOD</a>, <a class="code hl_define" href="constants_8h.html#ac83d7116eca40585f086d0c0c5e02e0c">CA_PUBLIC</a>, &amp;mod_mail_config.mail_expiration, 0},</div>
 <div class="line">    {NULL, NULL, 0, 0, NULL, 0}}</div>
-<div class="ttc" id="aconf_8c_html_a9a1ad9bd03ddc49a2e5e5d64ecfcbd7a"><div class="ttname"><a href="conf_8c.html#a9a1ad9bd03ddc49a2e5e5d64ecfcbd7a">cf_int</a></div><div class="ttdeci">CF_Result cf_int(int *vp, char *str, long extra, dbref player, char *cmd)</div><div class="ttdoc">Set integer parameter.</div><div class="ttdef"><b>Definition:</b> conf.c:482</div></div>
+<div class="ttc" id="aconf_8c_html_a9a1ad9bd03ddc49a2e5e5d64ecfcbd7a"><div class="ttname"><a href="conf_8c.html#a9a1ad9bd03ddc49a2e5e5d64ecfcbd7a">cf_int</a></div><div class="ttdeci">CF_Result cf_int(int *vp, char *str, long extra, dbref player, char *cmd)</div><div class="ttdoc">Set integer parameter.</div><div class="ttdef"><b>Definition:</b> conf.c:483</div></div>
 <div class="ttc" id="aconstants_8h_html_ac83d7116eca40585f086d0c0c5e02e0c"><div class="ttname"><a href="constants_8h.html#ac83d7116eca40585f086d0c0c5e02e0c">CA_PUBLIC</a></div><div class="ttdeci">#define CA_PUBLIC</div><div class="ttdoc">Command permission flags.</div><div class="ttdef"><b>Definition:</b> constants.h:373</div></div>
 <div class="ttc" id="aconstants_8h_html_ae3711c84b4ca88296796e8af4df161e2"><div class="ttname"><a href="constants_8h.html#ae3711c84b4ca88296796e8af4df161e2">CA_GOD</a></div><div class="ttdeci">#define CA_GOD</div><div class="ttdef"><b>Definition:</b> constants.h:374</div></div>
 </div><!-- fragment -->

diff --git a/html/conf_8c.html b/html/conf_8c.html
@@ -97,12 +97,13 @@ $(function() {
 <code>#include &lt;arpa/inet.h&gt;</code><br />
 <code>#include &lt;sys/param.h&gt;</code><br />
 <code>#include &lt;libgen.h&gt;</code><br />
+<code>#include &lt;unistd.h&gt;</code><br />
 </div><div class="textblock"><div class="dynheader">
 Include dependency graph for conf.c:</div>
 <div class="dyncontent">
 <div class="center"><img src="conf_8c__incl.png" border="0" usemap="#anetmush_2conf_8c" alt=""/></div>
 <map name="anetmush_2conf_8c" id="anetmush_2conf_8c">
-<area shape="rect" title="Configuration functions and defaults." alt="" coords="605,5,715,31"/>
+<area shape="rect" title="Configuration functions and defaults." alt="" coords="651,5,762,31"/>
 <area shape="rect" title=" " alt="" coords="5,79,72,104"/>
 <area shape="rect" href="constants_8h.html" title="Constants used by the engine." alt="" coords="97,79,186,104"/>
 <area shape="rect" href="typedefs_8h.html" title="Type definitions for variables." alt="" coords="177,152,258,177"/>
@@ -117,6 +118,7 @@ Include dependency graph for conf.c:</div>
 <area shape="rect" title=" " alt="" coords="1017,79,1100,104"/>
 <area shape="rect" title=" " alt="" coords="1125,79,1217,104"/>
 <area shape="rect" title=" " alt="" coords="1241,79,1308,104"/>
+<area shape="rect" title=" " alt="" coords="1332,79,1399,104"/>
 <area shape="rect" title=" " alt="" coords="45,152,101,177"/>
 <area shape="rect" title=" " alt="" coords="229,225,293,251"/>
 <area shape="rect" title=" " alt="" coords="63,225,123,251"/>
